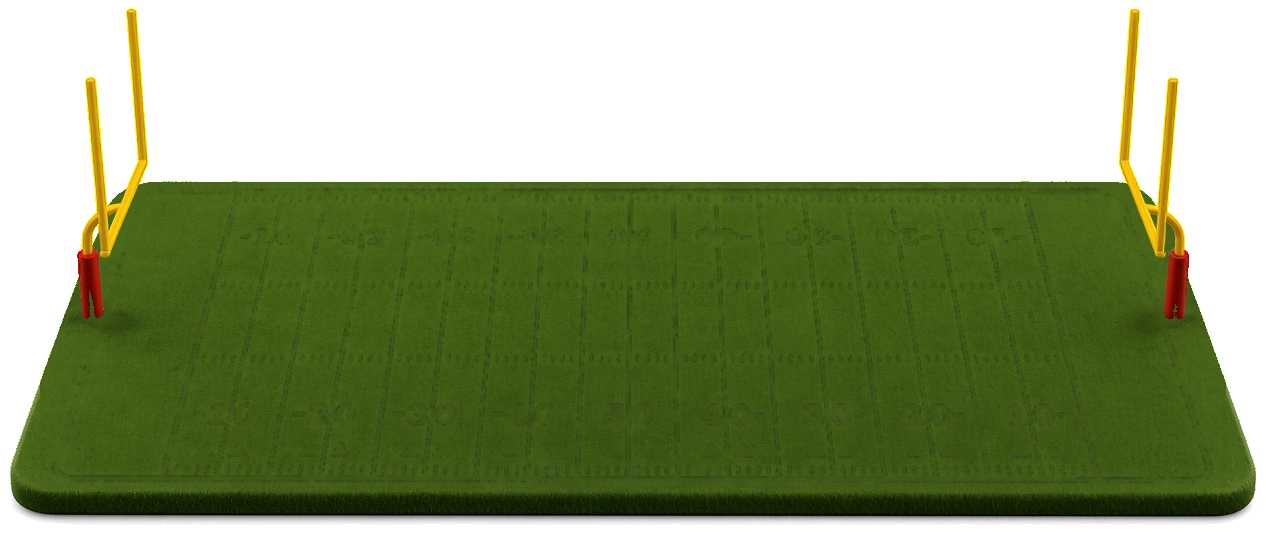
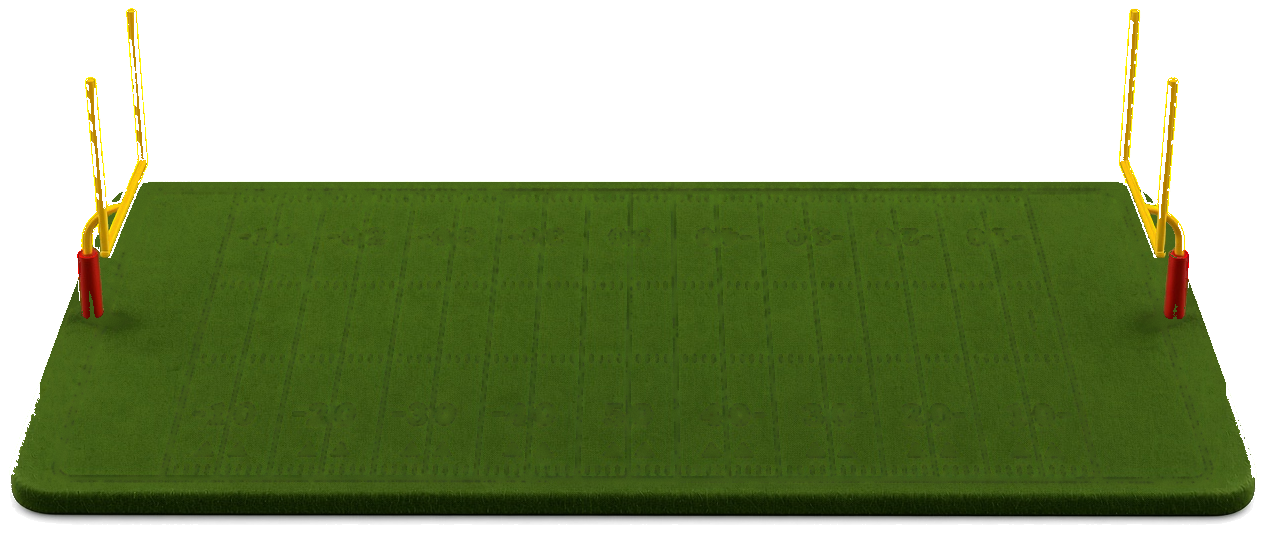
3D Gamecast: scrub fringe speckles along field and goalpost edges

diff --git a/src/features/lounge/gameHub/GameHubHero.jsx b/src/features/lounge/gameHub/GameHubHero.jsx
@@ -184,7 +184,7 @@ function FieldViz({ game, live, awayColor, homeColor }) {
       <div className="relative w-full overflow-hidden">
         {/* Layer 1: Floating field base graphic */}
         <img
-          src="/sports/nfl/gamecast-field-floating.png?v=627"
+          src="/sports/nfl/gamecast-field-floating.png?v=628"
           alt="Gamecast Field"
           className="pointer-events-none block w-full select-none"
         />
@@ -555,7 +555,7 @@ function FieldViz({ game, live, awayColor, homeColor }) {
 
         {/* Layer 3: Foreground Goalposts Overlay (prevents endzone paint from tinting uprights/pads) */}
         <img
-          src="/sports/nfl/gamecast-goalposts-overlay.png?v=627"
+          src="/sports/nfl/gamecast-goalposts-overlay.png?v=628"
           alt=""
           aria-hidden="true"
           className="pointer-events-none absolute inset-0 block h-full w-full select-none"

diff --git a/src/utils/appBuildInfo.js b/src/utils/appBuildInfo.js
@@ -1,5 +1,5 @@
 /** Semantic version for EdgeTilt web & platform. */
-export const APP_VERSION = '1.4.627'
+export const APP_VERSION = '1.4.628'
 
 /** Short git SHA baked in at `vite build` / Vercel deploy (`VERCEL_GIT_COMMIT_SHA`). */
 export const APP_BUILD_SHA = String(import.meta.env.VITE_BUILD_SHA || 'unknown')

diff --git a/docs/test-buildout-backlog.md b/docs/test-buildout-backlog.md
@@ -3771,3 +3771,4 @@ Items are ordered by priority. ✅ = implemented. 🔜 = next. ⏳ = deferred (m
 - **2026-09-25:** **3D Gamecast endzone W spacing tune:** Raised endzone `W` advance weight in `gameHubEndzone.js` from `1.28` to `1.42` for more air around COWBOYS. Bumped to v1.4.625.
 - **2026-09-25:** **3D Gamecast endzone W spacing tune:** Raised endzone `W` advance weight in `gameHubEndzone.js` from `1.42` to `1.58`. Bumped to v1.4.626.
 - **2026-09-25:** **3D Gamecast goalpost pad cleanup:** Closed transparent V-slits and muddy grass fringe at the base of both red goalpost pads in `gamecast-goalposts-overlay.png` so field turf no longer shows through the padding. Cache-busted overlay/field assets (`?v=627`). Bumped to v1.4.627.
+- **2026-09-25:** **3D Gamecast field edge fringe cleanup:** Scrubbed bright lime speckles along the far sideline (near corner pylons), pale grass silhouette halos against transparent bg, and green fringe around baked goalpost pads in `gamecast-field-floating.png` + `gamecast-goalposts-overlay.png`. Slightly dilated overlay pads to cover residual edge bleed. Cache-busted (`?v=628`). Bumped to v1.4.628.
